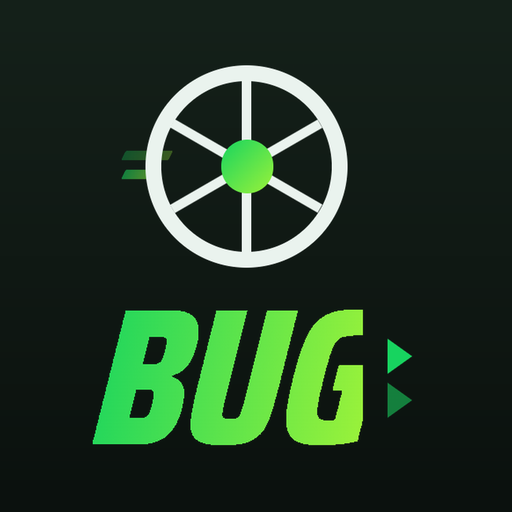
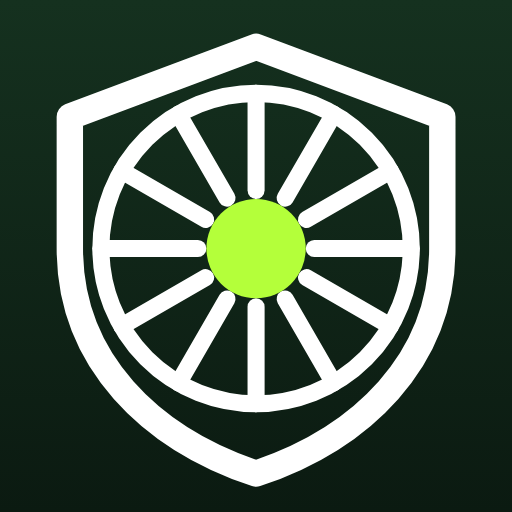
update tampilan terbaru

diff --git a/src/app/auth/login/page.tsx b/src/app/auth/login/page.tsx
@@ -1,14 +1,45 @@
 "use client";
 import { useState } from "react";
-import { useRouter } from "next/navigation";
 import Link from "next/link";
+import { useRouter } from "next/navigation";
 import { createClient } from "@/lib/supabase/client";
+
+// Roda berjeruji — motif yang sama dengan logo, dipakai sebagai latar struktural
+function RodaJeruji({ className = "" }: { className?: string }) {
+  const jeruji = Array.from({ length: 20 }, (_, i) => {
+    const a = (i * Math.PI * 2) / 20;
+    return { x1: 165 + 40 * Math.cos(a), y1: 150 + 40 * Math.sin(a), x2: 165 + 142 * Math.cos(a), y2: 150 + 142 * Math.sin(a) };
+  });
+  return (
+    <svg viewBox="0 0 330 300" className={className} aria-hidden="true">
+      {jeruji.map((j, i) => (
+        <line key={i} x1={j.x1} y1={j.y1} x2={j.x2} y2={j.y2} stroke="rgba(180,255,58,.26)" strokeWidth="1" />
+      ))}
+      <circle cx="165" cy="150" r="142" fill="none" stroke="rgba(180,255,58,.3)" strokeWidth="2" />
+      <circle cx="165" cy="150" r="40" fill="none" stroke="rgba(180,255,58,.45)" strokeWidth="2" />
+      <circle cx="165" cy="150" r="8" fill="#B4FF3A" />
+    </svg>
+  );
+}
+
+function LogoGoogle() {
+  return (
+    <svg width="17" height="17" viewBox="0 0 48 48" aria-hidden="true">
+      <path fill="#4285F4" d="M45 24c0-1.6-.1-2.7-.4-3.9H24v7.1h12c-.2 1.9-1.5 4.7-4.4 6.6l6.8 5.3C42.4 35.6 45 30.3 45 24z" />
+      <path fill="#34A853" d="M24 46c5.9 0 10.9-2 14.5-5.3l-6.9-5.3c-1.8 1.3-4.3 2.2-7.6 2.2-5.8 0-10.7-3.8-12.5-9.1l-7.1 5.5C8 41 15.4 46 24 46z" />
+      <path fill="#FBBC05" d="M11.5 28.5c-.5-1.4-.7-2.9-.7-4.5s.3-3.1.7-4.5l-7.1-5.5C2.9 17 2 20.4 2 24s.9 7 2.4 10z" />
+      <path fill="#EA4335" d="M24 10.6c3.2 0 5.4 1.4 6.7 2.6l5.9-5.8C33 4.1 29.9 2 24 2 15.4 2 8 7 4.4 14l7.1 5.5c1.8-5.3 6.7-9 12.5-9z" />
+    </svg>
+  );
+}
 
 export default function LoginPage() {
   const router = useRouter();
   const [email, setEmail] = useState("");
   const [password, setPassword] = useState("");
+  const [lihatSandi, setLihatSandi] = useState(false);
   const [loading, setLoading] = useState(false);
+  const [googleLoading, setGoogleLoading] = useState(false);
   const [error, setError] = useState("");
 
   async function handleLogin(e: React.FormEvent) {
@@ -26,55 +57,87 @@ export default function LoginPage() {
     }
   }
 
+  // Masuk dengan Google. Perlu penyedia Google diaktifkan di Supabase
+  // (Authentication -> Providers -> Google). Bila belum, pesan errornya tampil di layar.
+  async function handleGoogle() {
+    setGoogleLoading(true);
+    setError("");
+    try {
+      const supabase = createClient();
+      const { error } = await supabase.auth.signInWithOAuth({
+        provider: "google",
+        options: { redirectTo: `${window.location.origin}/auth/callback` },
+      });
+      if (error) {
+        setError(error.message);
+        setGoogleLoading(false);
+      }
+    } catch {
+      setError("Gagal membuka halaman Google. Coba lagi.");
+      setGoogleLoading(false);
+    }
+  }
+
   return (
-    <div className="px-4 pt-12 max-w-md mx-auto">
-      <h1 className="text-3xl font-bold text-green-700 text-center">Masuk</h1>
-      <p className="text-center text-gray-500 text-sm mt-1 mb-8">Selamat datang kembali di BUG</p>
+    <div className="min-h-screen bg-[#071310] text-white relative overflow-hidden -mb-20">
+      <RodaJeruji className="absolute -top-16 -right-28 w-[330px] h-[300px] opacity-50 pointer-events-none" />
 
-      <form onSubmit={handleLogin} className="bg-white rounded-xl p-6 shadow-sm space-y-4">
-        <div>
-          <label className="block text-sm font-medium text-gray-700 mb-1">Email</label>
-          <input
-            type="email"
-            required
-            value={email}
-            onChange={(e) => setEmail(e.target.value)}
-            className="w-full px-3 py-2 border border-gray-300 rounded-lg focus:outline-none focus:ring-2 focus:ring-green-500"
-            placeholder="kamu@email.com"
-          />
-        </div>
-        <div>
-          <label className="block text-sm font-medium text-gray-700 mb-1">Password</label>
-          <input
-            type="password"
-            required
-            value={password}
-            onChange={(e) => setPassword(e.target.value)}
-            className="w-full px-3 py-2 border border-gray-300 rounded-lg focus:outline-none focus:ring-2 focus:ring-green-500"
-            placeholder="Min. 6 karakter"
-          />
-        </div>
-        {error && <p className="text-red-600 text-sm">{error}</p>}
-        <button
-          type="submit"
-          disabled={loading}
-          className="w-full bg-green-600 text-white py-2 rounded-lg font-medium hover:bg-green-700 disabled:bg-gray-400"
-        >
-          {loading ? "Memproses..." : "Masuk"}
+      <div className="relative px-6 pt-16">
+        <h1 className="display-title text-[42px] leading-[0.9] tracking-tight">
+          BULUNGAN<br />UNTUK<br /><span className="text-lime-400">GOWESER</span>
+        </h1>
+        <div className="mt-4 h-[3px] w-24 rounded-sm opacity-90"
+          style={{ background: "repeating-linear-gradient(90deg,#B4FF3A 0 12px,transparent 12px 22px)" }} />
+        <p className="mt-3 text-[13px] leading-relaxed text-slate-400 max-w-[220px]">
+          Platform keselamatan pesepeda Kabupaten Bulungan.
+        </p>
+      </div>
+
+      <div className="relative px-5 mt-10 pb-16">
+        <button onClick={handleGoogle} disabled={googleLoading}
+          className="w-full bg-white text-slate-800 rounded-xl py-3.5 flex items-center justify-center gap-2.5 font-semibold text-sm active:scale-[.98] transition-transform disabled:opacity-70">
+          <LogoGoogle />
+          {googleLoading ? "Membuka Google…" : "Masuk dengan Google"}
         </button>
-      </form>
 
-      <p className="text-center text-sm text-gray-600 mt-6">
-        Belum punya akun?{" "}
-        <Link href="/auth/register" className="text-green-700 font-medium">
-          Daftar di sini
-        </Link>
-      </p>
-      <p className="text-center text-sm text-gray-600 mt-2">
-        <Link href="/auth/lupa-password" className="text-green-700 font-medium">
-          Lupa password?
-        </Link>
-      </p>
+        <div className="flex items-center gap-3 my-5">
+          <div className="flex-1 h-px bg-lime-400/15" />
+          <span className="eyebrow text-slate-500 !text-[10px]">atau email</span>
+          <div className="flex-1 h-px bg-lime-400/15" />
+        </div>
+
+        <form onSubmit={handleLogin} className="space-y-2.5">
+          <input type="email" required value={email} onChange={(e) => setEmail(e.target.value)}
+            placeholder="nama@email.com"
+            className="w-full bg-[#0B1F18] border border-lime-400/15 rounded-xl px-4 py-3.5 text-sm placeholder:text-slate-500 focus:outline-none focus:border-lime-400/50" />
+          <div className="relative">
+            <input type={lihatSandi ? "text" : "password"} required value={password}
+              onChange={(e) => setPassword(e.target.value)} placeholder="Kata sandi"
+              className="w-full bg-[#0B1F18] border border-lime-400/15 rounded-xl px-4 py-3.5 pr-16 text-sm placeholder:text-slate-500 focus:outline-none focus:border-lime-400/50" />
+            <button type="button" onClick={() => setLihatSandi((v) => !v)}
+              className="absolute right-4 top-1/2 -translate-y-1/2 text-xs text-lime-400">
+              {lihatSandi ? "tutup" : "lihat"}
+            </button>
+          </div>
+
+          {error && <p className="text-red-400 text-xs pt-1">{error}</p>}
+
+          <button type="submit" disabled={loading}
+            className="w-full bg-gradient-to-r from-lime-400 to-emerald-500 text-slate-950 rounded-xl py-3.5 display-title text-base tracking-wide disabled:opacity-60 active:scale-[.98] transition-transform">
+            {loading ? "MEMPROSES…" : "MASUK"}
+          </button>
+        </form>
+
+        <div className="flex items-center justify-between mt-5 text-xs">
+          <Link href="/auth/lupa-password" className="text-slate-400">Lupa kata sandi?</Link>
+          <span className="text-slate-400">
+            Baru di BUG? <Link href="/auth/register" className="text-lime-400 font-semibold">Buat akun</Link>
+          </span>
+        </div>
+      </div>
+
+      <div className="absolute bottom-0 left-0 right-0 h-2"
+        style={{ background: "repeating-linear-gradient(115deg,#FFB020 0 10px,#071310 10px 20px)" }} />
     </div>
   );
 }

diff --git a/src/components/bug-icons.tsx b/src/components/bug-icons.tsx
@@ -1,0 +1,83 @@
+"use client";
+// Pustaka ikon khusus BUG — digambar dari nol pada grid 24px.
+// Setiap ikon memuat satu elemen "marka jalan" (kelas .a) yang mewarisi warna aksen,
+// sehingga seluruh set terasa satu keluarga. Pakai: <IkonPeta size={20} />
+import type { SVGProps } from "react";
+
+type Props = SVGProps<SVGSVGElement> & { size?: number; accent?: string };
+
+function Base({ size = 24, accent = "currentColor", children, ...rest }: Props & { children: React.ReactNode }) {
+  return (
+    <svg
+      viewBox="0 0 24 24" width={size} height={size} fill="none" stroke="currentColor"
+      strokeWidth={1.8} strokeLinecap="round" strokeLinejoin="round" aria-hidden="true" {...rest}
+    >
+      <g style={{ ["--aksen" as string]: accent }}>{children}</g>
+      <style>{`g [data-a]{stroke:${accent}}`}</style>
+    </svg>
+  );
+}
+
+export function IkonBeranda(p: Props) {
+  return <Base {...p}>{<><path d="M4 11.2 12 4.5l8 6.7"/><path d="M6.2 10v8.5h11.6V10"/><path d="M10 18.5v-4.3h4v4.3"/><g data-a="1"><path d="M3 21.4h3M8.5 21.4h3M14 21.4h3M19.5 21.4h1.5"/></g></>}</Base>;
+}
+
+export function IkonPeta(p: Props) {
+  return <Base {...p}>{<><path d="M9 4.6 3.8 6.8v12.6L9 17.2l6 2.2 5.2-2.2V4.6L15 6.8Z"/><path d="M9 4.6v12.6M15 6.8v12.6"/><g data-a="1"><circle cx="12" cy="10.4" r="2.1"/><path d="M12 12.5v2"/></g></>}</Base>;
+}
+
+export function IkonGowes(p: Props) {
+  return <Base {...p}>{<><circle cx="5.6" cy="16.6" r="3.6"/><circle cx="18.4" cy="16.6" r="3.6"/><path d="M5.6 16.6 9.4 8.4h4.2l3 8.2"/><path d="M8.2 8.4h4.6"/><g data-a="1"><path d="M12 16.6h2.6M2 12.4h2.6M19.4 12.4H22"/></g></>}</Base>;
+}
+
+export function IkonSos(p: Props) {
+  return <Base {...p}>{<><path d="M12 3.6 3.4 18.6h17.2Z"/><path d="M12 9.4v4.2"/><g data-a="1"><circle cx="12" cy="16.2" r="1"/><path d="M6.6 21.4h3M12 21.4h1.6M16 21.4h2.4"/></g></>}</Base>;
+}
+
+export function IkonEdukasi(p: Props) {
+  return <Base {...p}>{<><path d="M3.6 6.2c3-1.4 5.7-1.4 8.4 0 2.7-1.4 5.4-1.4 8.4 0v11.6c-3-1.4-5.7-1.4-8.4 0-2.7-1.4-5.4-1.4-8.4 0Z"/><path d="M12 6.2v11.6"/><g data-a="1"><path d="M6.4 10h3M6.4 13h2M15 10h2.8M15 13h2"/></g></>}</Base>;
+}
+
+export function IkonForum(p: Props) {
+  return <Base {...p}>{<><path d="M3.6 5.6h13.2v8.6H9.4l-4 3.2v-3.2H3.6Z"/><path d="M17.4 9.4h3v8.4h-2v3l-3.4-3h-4"/><g data-a="1"><path d="M6.4 9.8h7.4M6.4 12h4.6"/></g></>}</Base>;
+}
+
+export function IkonProfil(p: Props) {
+  return <Base {...p}>{<><circle cx="12" cy="8.4" r="3.6"/><path d="M4.8 20.4c.6-3.9 3.6-6 7.2-6s6.6 2.1 7.2 6"/><g data-a="1"><path d="M8.4 6.6c1.4-1.6 5.8-1.6 7.2 0"/><path d="M9.6 20.4h4.8"/></g></>}</Base>;
+}
+
+export function IkonKampanye(p: Props) {
+  return <Base {...p}>{<><path d="M4.4 9.6v4.8h3.2L15 19V5L7.6 9.6Z"/><path d="M18 8.6a5 5 0 0 1 0 6.8"/><g data-a="1"><path d="M20.4 6.4a8.4 8.4 0 0 1 0 11.2"/><path d="M6.6 14.4v4.2h2.8"/></g></>}</Base>;
+}
+
+export function IkonLapor(p: Props) {
+  return <Base {...p}>{<><rect x="3.4" y="7.4" width="17.2" height="10.4" rx="1.6"/><path d="M12 7.4V4.2"/><path d="M8.6 4.2h6.8"/><g data-a="1"><path d="M7 11.4h4.2M7 14.2h6.6"/><circle cx="16.8" cy="12.6" r="1.6"/></g></>}</Base>;
+}
+
+export function IkonPantau(p: Props) {
+  return <Base {...p}>{<><path d="M12 21c3.6-4.3 5.4-7.4 5.4-9.6A5.4 5.4 0 0 0 6.6 11.4c0 2.2 1.8 5.3 5.4 9.6Z"/><circle cx="12" cy="11.2" r="1.9"/><g data-a="1"><path d="M3.6 6.2a10 10 0 0 1 2.6-2.4M20.4 6.2a10 10 0 0 0-2.6-2.4"/></g></>}</Base>;
+}
+
+export function IkonDashboard(p: Props) {
+  return <Base {...p}>{<><path d="M12 3.4 4.4 6.2v6c0 4.3 3.1 7.6 7.6 8.8 4.5-1.2 7.6-4.5 7.6-8.8v-6Z"/><g data-a="1"><path d="M9 14.6v-2.8M12 14.6V9.8M15 14.6v-4"/></g></>}</Base>;
+}
+
+export function IkonRute(p: Props) {
+  return <Base {...p}>{<><circle cx="6" cy="6.4" r="2.4"/><circle cx="18" cy="17.6" r="2.4"/><path d="M6 8.8v3.4c0 2 1.6 3.4 3.6 3.4h4.8"/><g data-a="1"><path d="M15.6 15.6h.1M9.4 4.4h2.4M13.8 4.4h1.6"/></g></>}</Base>;
+}
+
+export function IkonStreak(p: Props) {
+  return <Base {...p}>{<><path d="M12 21c3.7 0 6.4-2.5 6.4-6 0-4.4-4-6-4-9.6-2 .9-3.2 2.4-3.6 4.2-1-.7-1.6-1.8-1.7-3-1.9 1.6-3.5 4.2-3.5 8.4 0 3.5 2.7 6 6.4 6Z"/><g data-a="1"><path d="M12 17.8c1.4 0 2.4-1 2.4-2.3 0-1.6-1.5-2.3-1.5-3.6-1.4.9-2.1 2-2.1 3.6 0 1.3.9 2.3 1.2 2.3Z"/></g></>}</Base>;
+}
+
+export function IkonTrofi(p: Props) {
+  return <Base {...p}>{<><path d="M7.4 4.4h9.2v5a4.6 4.6 0 0 1-9.2 0Z"/><path d="M7.4 6.2H4.6v1.4a3 3 0 0 0 2.8 3"/><path d="M16.6 6.2h2.8v1.4a3 3 0 0 1-2.8 3"/><path d="M12 14v3.4"/><g data-a="1"><path d="M8.6 20.4h6.8"/><path d="M9.8 17.4h4.4v3H9.8Z"/></g></>}</Base>;
+}
+
+export function IkonKartu(p: Props) {
+  return <Base {...p}>{<><rect x="3.4" y="5.4" width="17.2" height="13.2" rx="2"/><path d="M3.4 15.2l4.4-4 3.4 3 3.6-3.6 5.8 5.2"/><g data-a="1"><circle cx="8.2" cy="9.6" r="1.4"/><path d="M6 21.2h4M12.4 21.2h5.6"/></g></>}</Base>;
+}
+
+export function IkonHelm(p: Props) {
+  return <Base {...p}>{<><path d="M3.8 14.6a8.2 8.2 0 0 1 16.4 0"/><path d="M3.8 14.6h16.4l-1.4 3.2H5.2Z"/><g data-a="1"><path d="M9 6.6c1.6 2 2.2 4.6 2.2 8M14.6 7.6c-.8 1.8-1.2 4-1.2 7"/></g></>}</Base>;
+}

diff --git a/src/components/navbar.tsx b/src/components/navbar.tsx
@@ -2,24 +2,27 @@
 import Link from "next/link";
 import { usePathname } from "next/navigation";
 import { useNavLoading } from "@/app/nav-loading";
-import { Home, Map, Siren, BookOpen, User, Bike, MessageSquare, type LucideIcon } from "lucide-react";
+// Ikon khusus BUG (digambar sendiri) menggantikan ikon pustaka umum
+import {
+  IkonBeranda, IkonPeta, IkonGowes, IkonSos, IkonEdukasi, IkonProfil, IkonForum,
+} from "@/components/bug-icons";
 
 const leftTabs = [
-  { href: "/", label: "Beranda", icon: Home },
-  { href: "/peta", label: "Peta", icon: Map },
-  { href: "/catat", label: "Gowes", icon: Bike },
+  { href: "/", label: "Beranda", icon: IkonBeranda },
+  { href: "/peta", label: "Peta", icon: IkonPeta },
+  { href: "/catat", label: "Gowes", icon: IkonGowes },
 ];
 const rightTabs = [
-  { href: "/edukasi", label: "Edukasi", icon: BookOpen },
-  { href: "/forum", label: "Forum", icon: MessageSquare },
-  { href: "/profil", label: "Profil", icon: User },
+  { href: "/edukasi", label: "Edukasi", icon: IkonEdukasi },
+  { href: "/forum", label: "Forum", icon: IkonForum },
+  { href: "/profil", label: "Profil", icon: IkonProfil },
 ];
 
 export default function Navbar() {
   const pathname = usePathname();
   const { startNavigation } = useNavLoading();
 
-  function Tab({ href, label, icon: Icon }: { href: string; label: string; icon: LucideIcon }) {
+  function Tab({ href, label, icon: Icon }: { href: string; label: string; icon: (p: { size?: number; strokeWidth?: number }) => React.ReactElement }) {
     const active = pathname === href;
     return (
       <Link href={href} prefetch={false} onClick={() => startNavigation(href)} className="flex flex-col items-center justify-center flex-1 h-full group">
@@ -43,7 +46,7 @@ export default function Navbar() {
         {/* SOS: tombol tengah, paling besar, menonjol ke atas */}
         <Link href="/sos" prefetch={false} onClick={() => startNavigation("/sos")} className="absolute left-1/2 -translate-x-1/2 -top-6 flex flex-col items-center">
           <span className="sos-pulse w-16 h-16 rounded-full bg-gradient-to-br from-red-500 to-red-700 text-white flex items-center justify-center shadow-lg border-4 border-slate-950 active:scale-95 transition-transform">
-            <Siren size={30} />
+            <IkonSos size={28} />
           </span>
           <span className={`eyebrow mt-1 !text-[10px] ${pathname === "/sos" ? "text-red-400" : "text-red-500"}`}>SOS</span>
         </Link>

diff --git a/src/app/auth/register/page.tsx b/src/app/auth/register/page.tsx
@@ -1,13 +1,11 @@
 "use client";
 import { useState } from "react";
 import Link from "next/link";
-import { useRouter } from "next/navigation";
 import { createClient } from "@/lib/supabase/client";
 
 type MemberType = "pelajar" | "pekerja";
 
 export default function RegisterPage() {
-  const router = useRouter();
   const [fullName, setFullName] = useState("");
   const [email, setEmail] = useState("");
   const [password, setPassword] = useState("");
@@ -24,7 +22,7 @@ export default function RegisterPage() {
     setLoading(true);
     setError("");
     const supabase = createClient();
-    const { data, error } = await supabase.auth.signUp({
+    const { error } = await supabase.auth.signUp({
       email,
       password,
       options: {
@@ -33,27 +31,16 @@ export default function RegisterPage() {
           member_type: memberType,
           organization,
         },
-        emailRedirectTo: `${window.location.origin}/auth/confirm`,
+        emailRedirectTo: `${window.location.origin}/auth/callback`,
       },
     });
-
     if (error) {
       setError(error.message);
       setLoading(false);
-      return;
+    } else {
+      setSuccess(true);
+      setLoading(false);
     }
-
-    // Bila konfirmasi email DIMATIKAN di Supabase, signUp langsung memberi
-    // sesi aktif -> masuk saja ke aplikasi tanpa perlu buka email.
-    if (data.session) {
-      router.push("/");
-      router.refresh();
-      return;
-    }
-
-    // Bila konfirmasi email dinyalakan, tampilkan petunjuk cek email.
-    setSuccess(true);
-    setLoading(false);
   }
 
   if (success) {

diff --git a/src/app/nav-loading.tsx b/src/app/nav-loading.tsx
@@ -127,6 +127,11 @@ function NavLoadingOverlay() {
   return (
     <div className="fixed inset-0 z-[3000] flex flex-col items-center justify-center nav-loading-backdrop">
       <div className="relative flex items-center justify-center">
+        {/* Perisai diam sebagai bingkai (motif logo), roda berputar di dalamnya */}
+        <svg width="128" height="128" viewBox="0 0 64 64" className="absolute" aria-hidden="true">
+          <path d="M32 5 L56 14 V31 C56 45.5 45.5 55.5 32 60 C18.5 55.5 8 45.5 8 31 V14 Z"
+            fill="none" stroke="rgba(255,255,255,0.16)" strokeWidth="2.2" strokeLinejoin="round" />
+        </svg>
         {/* Roda sepeda berputar (perlahan & mulus) */}
         <svg width="128" height="128" viewBox="0 0 120 120" className="nav-wheel" aria-hidden="true">
           <defs>

diff --git a/src/lib/version.ts b/src/lib/version.ts
@@ -1,4 +1,4 @@
 // Penanda versi build. Ditampilkan di halaman Profil (paling bawah) agar bisa
 // dipastikan versi mana yang benar-benar hidup di situs/aplikasi.
 // Naikkan angkanya setiap kali ada perubahan yang dikirim.
-export const BUILD_TAG = "v2026.07.27-03";
+export const BUILD_TAG = "v2026.08.01-tahap1";
